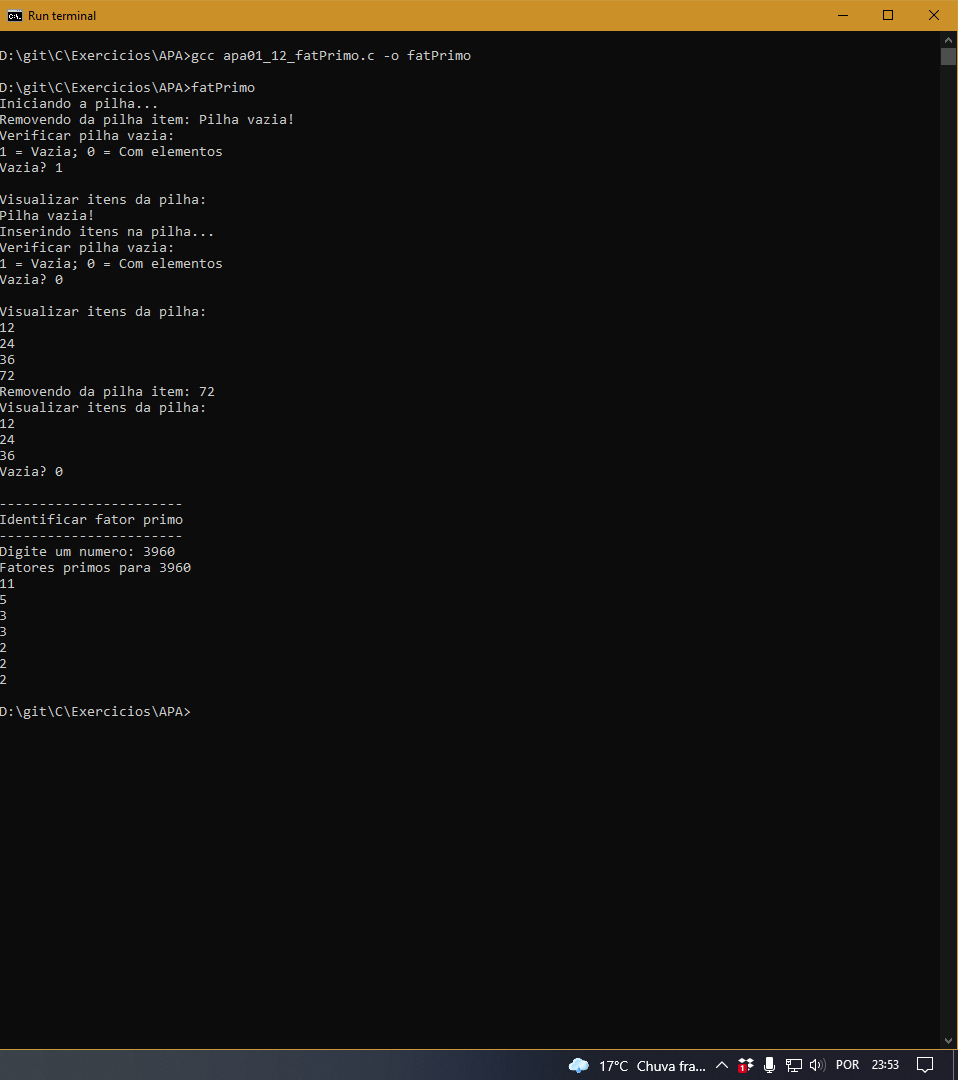
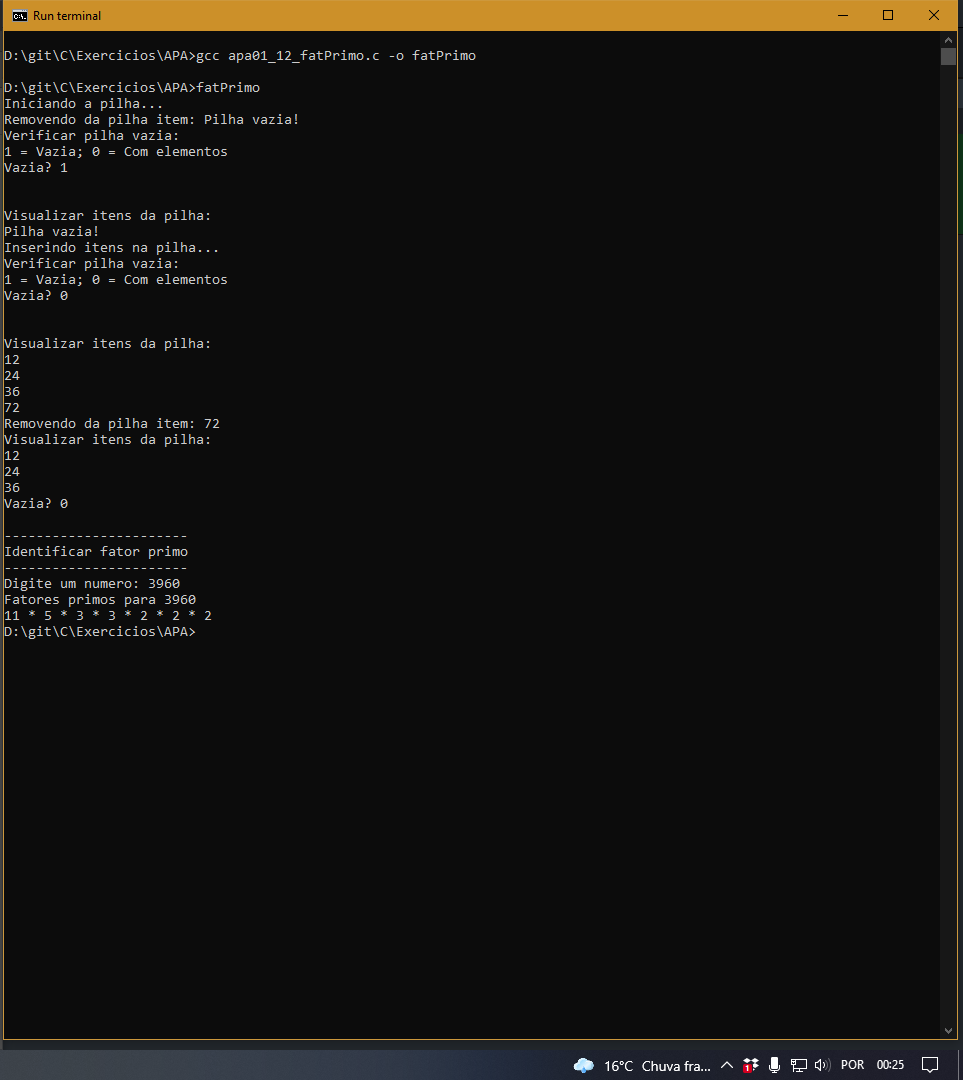
Update files

Changed region(s): [[0.0, 0.0, 1.0, 1.0], [0.4238, 0.0306, 0.4843, 0.0611]]

diff --git a/Exercicios/APA/apa01_12_fatPrimo.c b/Exercicios/APA/apa01_12_fatPrimo.c
@@ -71,7 +71,7 @@ Pilha* pilha_exclui(Pilha* plh){
         }
         pu->prox = NULL;
         len --;
-        printf("%i\n", u->info);
+        printf("%i", u->info);
         return u;
     }
 }
@@ -79,7 +79,7 @@ Pilha* pilha_exclui(Pilha* plh){
 /*Função de impressão: imprime valores dos elementos*/
 /*==================================================*/
 void pilha_imprime(Pilha *plh){
-    puts("Visualizar itens da pilha:");
+    puts("\nVisualizar itens da pilha:");
     if(pilha_vazia(plh)){
         puts("Pilha vazia!");
         return;
@@ -186,13 +186,17 @@ int main(){
     scanf("%i", &n);
     Pilha* fp;
     fp = fatPrimo(n);
-    /*Eliminação dos elementos e exibição na tela*/
-    /*Como a eliminaçaõ é feita na ordem inversa
-    do topo da pilha até o final, conseguimos 
-    visualizar a ordem correta (inversa) dos itens*/
-    while (fp->prox != NULL){
+    /*Eliminação dos elementos e exibição na tela no formato requisitado*/
+    while(1){
         pilha_exclui(fp);
+        if(fp->prox == NULL){
+            break;
+        }
+        printf(" * ");
     }
+    /*Como a eliminaçaõ acima é feita na ordem inversa,
+    ou seja, do topo da pilha até o final, conseguimos 
+    visualizar a ordem desejada dos itens*/
     pilha_liberar(fp);
     return 0;
 }
